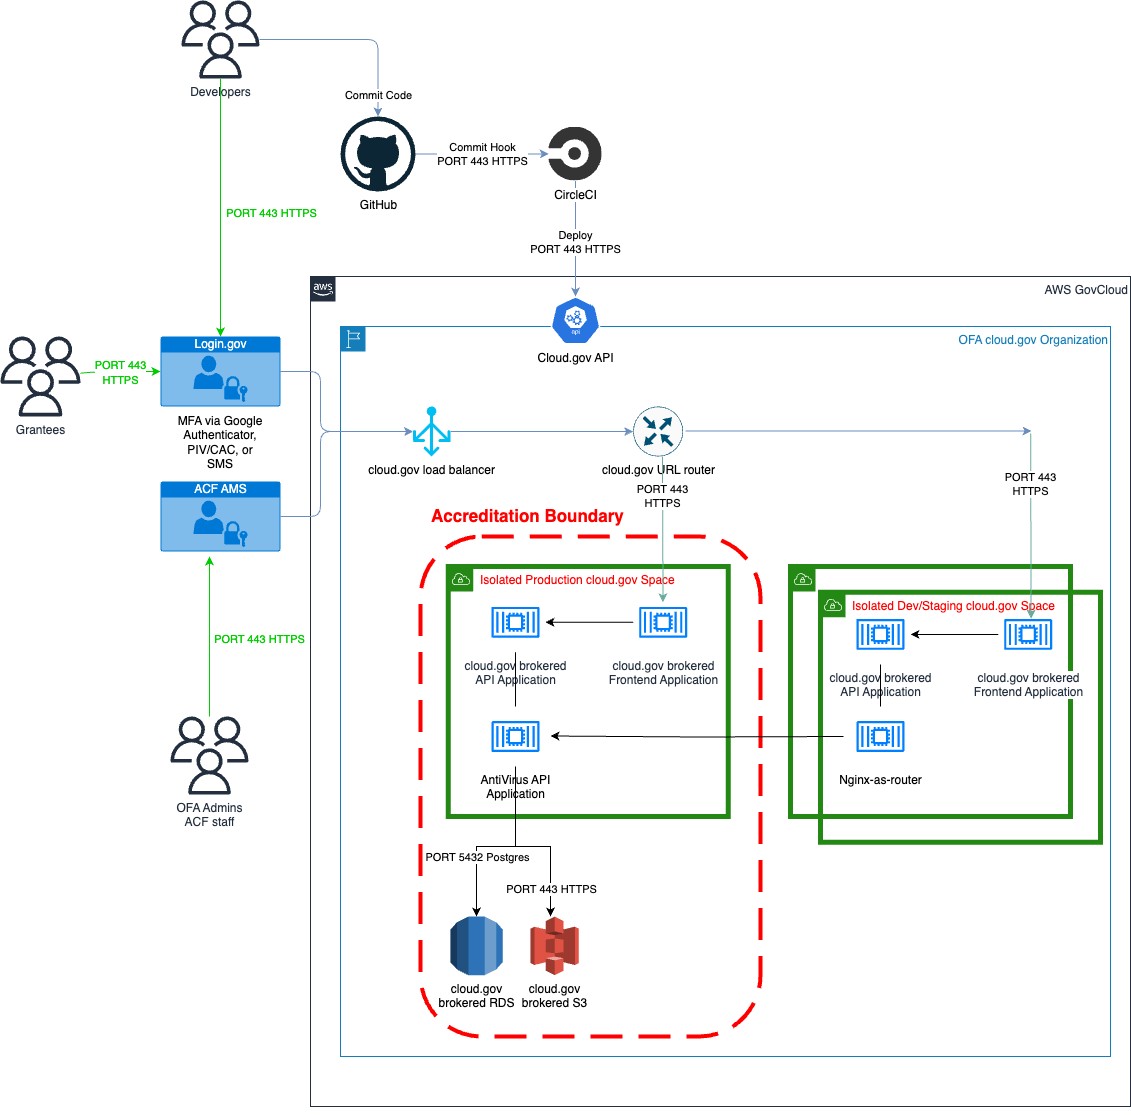
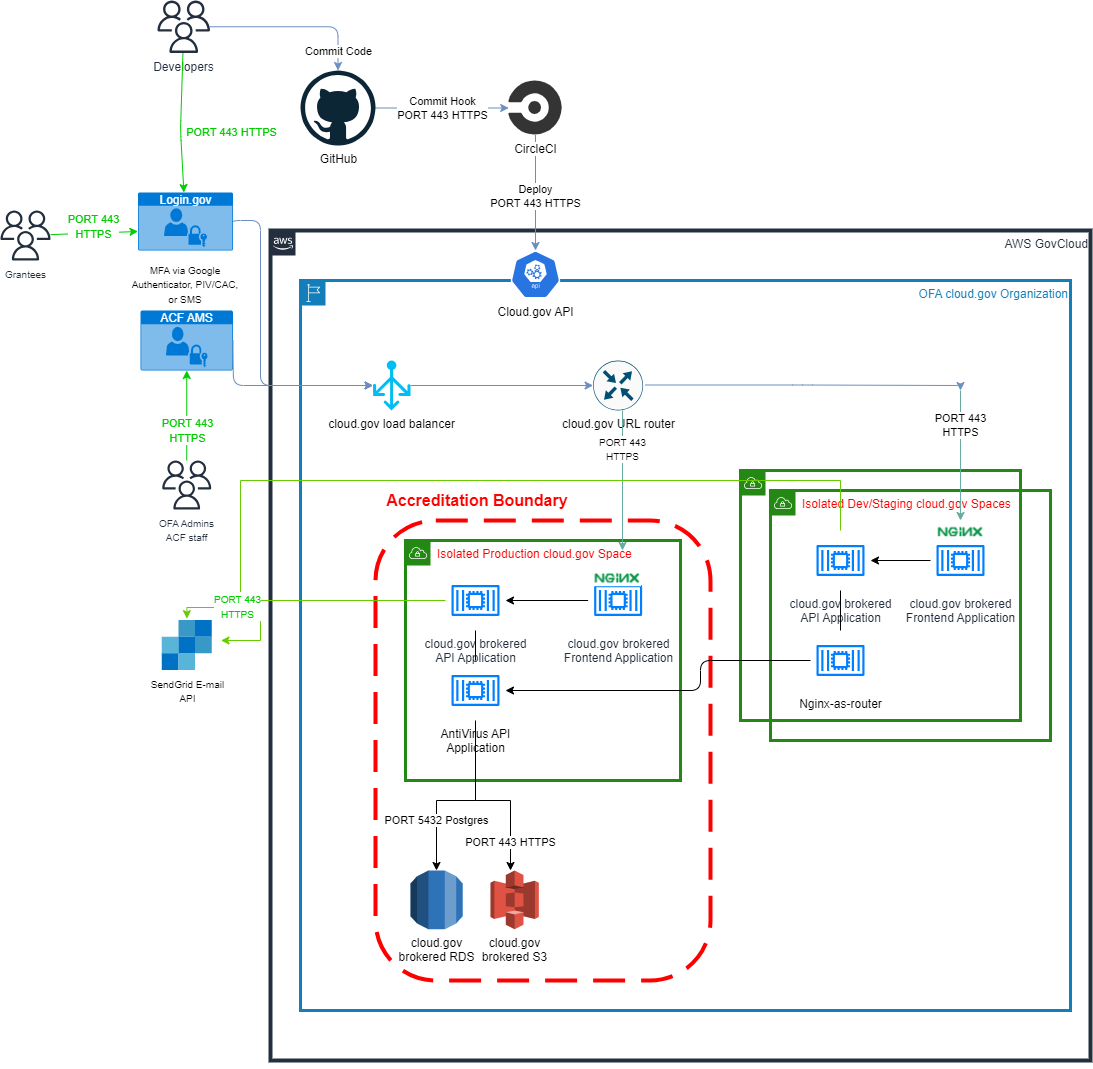
boundary diagram updates for 2488

diff --git a/docs/Security-Compliance/boundary-diagram.md b/docs/Security-Compliance/boundary-diagram.md
@@ -14,7 +14,7 @@ Users with `OFA Admin` and (STT) `Data Analyst` roles can upload data on upload 
 
 ### User access
 
-All web users will log into the system through their web browsers. 
+All web users will log into the system through their web browsers. An [Nginx server](../../tdrs-frontend/nginx/README.md) sits in front of each frontend application to serve as a reverse proxy to block traffic to TDP from outside the US/US territories. For traffic *within* the US/US territories:
 - all non-acf users will leverage Login.gov and two factor authentication.
 - all ACF users will leverage ACF AMS and authenticate using PIV/CAC.  Developers will also have access to the `dev` and `staging` spaces using SSH.
 
@@ -22,9 +22,9 @@ All users will be required to be approved within the application by an administr
 
 ### Access points
 
-Beyond web-based authentication through ACF AMS or Login.gov, and developer SSH access to the dev Space, CircleCI will also have access to the various environments to support deployments.
+Beyond web-based authentication through ACF AMS or Login.gov, and developer SSH access to the dev Space, CircleCI will also have access to the various environments to support deployments. TDP system administrators will trigger CircleCI-based deployments via GitHub. 
 
-TDP system administrators will trigger CircleCI-based deployments via GitHub. 
+Additionally, the [SendGrid E-mail API](../Technical-Documentation/Architecture-Decision-Record/021-sendgrid.md) receives requests from the backend applications in each environment to trigger email notifications for key user activities in TDP: requests for access, admin changes to user accounts (approval, denial, deactivation), and data submissions. SendGrid only has access to TDP user email addresses. 
 
 ### Configuration
 
